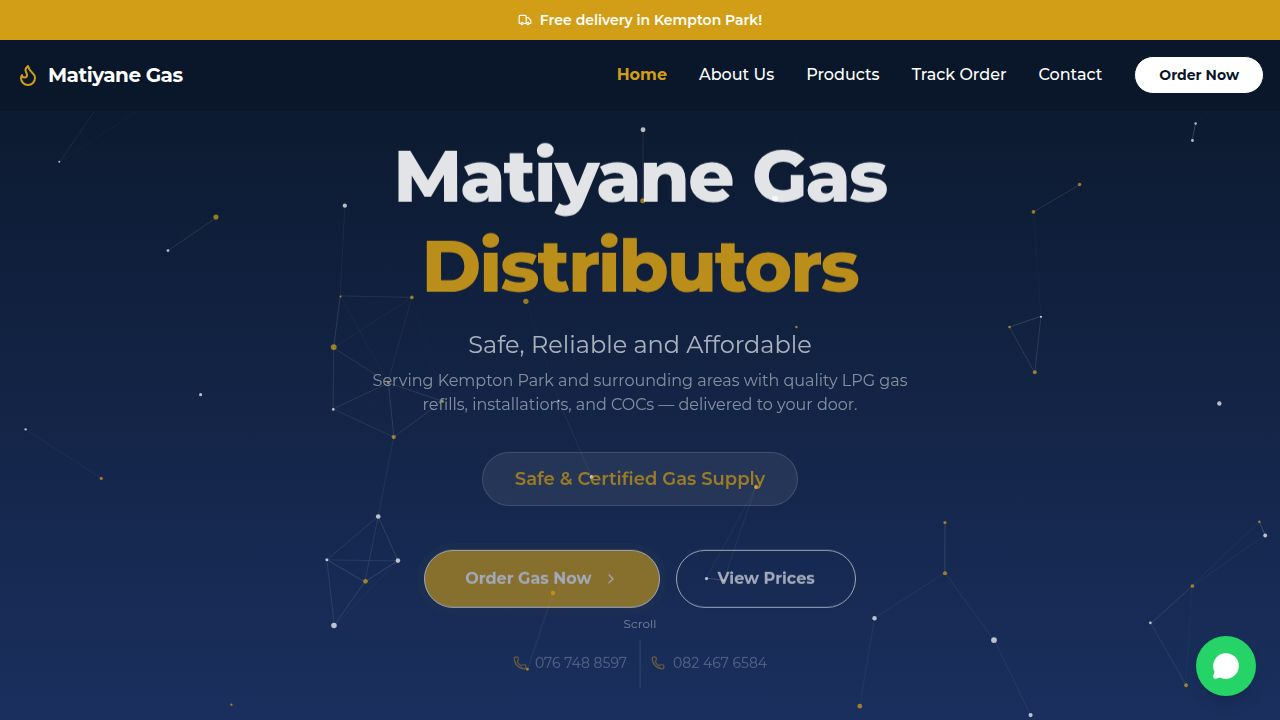
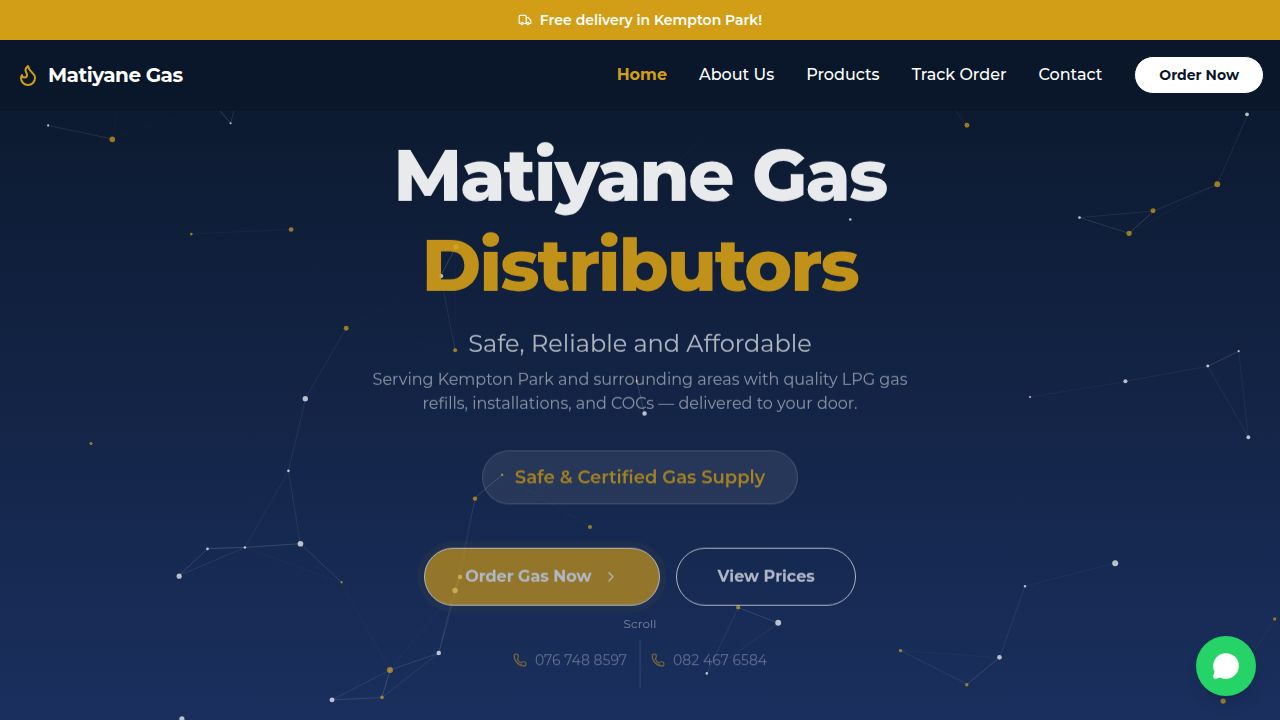
Match accent bar colors with card border hover effects
Add new CSS classes for matching border hover colors and apply them to gas refill and service cards on the home and products pages.

Replit-Commit-Author: Agent
Replit-Commit-Session-Id: fb7f2966-bd04-4505-9ab8-6fdab051f479
Replit-Commit-Checkpoint-Type: full_checkpoint
Replit-Commit-Event-Id: 66f531d3-a7df-46f3-b442-9c801d1b4bfa
Replit-Commit-Screenshot-Url: https://storage.googleapis.com/screenshot-production-us-central1/ec20ed8d-13c7-46a7-9856-6e2779a31ac6/fb7f2966-bd04-4505-9ab8-6fdab051f479/YrwTUzP
Replit-Helium-Checkpoint-Created: true

diff --git a/artifacts/matiyane-gas/src/index.css b/artifacts/matiyane-gas/src/index.css
@@ -240,3 +240,25 @@
 .accent-bar-orange { background-color: #ea580c; }
 .accent-bar-teal { background-color: #0d9488; }
 .accent-bar-lime { background-color: #65a30d; }
+
+/* ── Matching border hover colors ── */
+.border-hover-blue { transition: border-color 0.3s ease; }
+.border-hover-blue:hover { border-color: #2563eb; }
+.border-hover-amber { transition: border-color 0.3s ease; }
+.border-hover-amber:hover { border-color: #d97706; }
+.border-hover-green { transition: border-color 0.3s ease; }
+.border-hover-green:hover { border-color: #16a34a; }
+.border-hover-purple { transition: border-color 0.3s ease; }
+.border-hover-purple:hover { border-color: #9333ea; }
+.border-hover-rose { transition: border-color 0.3s ease; }
+.border-hover-rose:hover { border-color: #e11d48; }
+.border-hover-cyan { transition: border-color 0.3s ease; }
+.border-hover-cyan:hover { border-color: #0891b2; }
+.border-hover-indigo { transition: border-color 0.3s ease; }
+.border-hover-indigo:hover { border-color: #4f46e5; }
+.border-hover-orange { transition: border-color 0.3s ease; }
+.border-hover-orange:hover { border-color: #ea580c; }
+.border-hover-teal { transition: border-color 0.3s ease; }
+.border-hover-teal:hover { border-color: #0d9488; }
+.border-hover-lime { transition: border-color 0.3s ease; }
+.border-hover-lime:hover { border-color: #65a30d; }

diff --git a/artifacts/matiyane-gas/src/pages/home.tsx b/artifacts/matiyane-gas/src/pages/home.tsx
@@ -64,6 +64,12 @@ const accentBarClasses = [
   "accent-bar-indigo", "accent-bar-orange", "accent-bar-teal", "accent-bar-lime"
 ];
 
+const borderHoverClasses = [
+  "border-hover-blue", "border-hover-amber", "border-hover-green",
+  "border-hover-purple", "border-hover-rose", "border-hover-cyan",
+  "border-hover-indigo", "border-hover-orange", "border-hover-teal", "border-hover-lime"
+];
+
 const marqueeLogos = [
   "Licensed & Certified Gas Distributor", "Free Delivery in Kempton Park", "Available 7 Days a Week",
   "Your Safety is Our Priority", "Trusted by Thousands of Households", "Competitive Prices, No Compromise",
@@ -189,7 +195,7 @@ export default function HomePage() {
           <div className="grid grid-cols-1 sm:grid-cols-2 lg:grid-cols-5 gap-6">
             {gasRefills.map((product, i) => (
               <FadeIn key={product.id} direction="up" delay={i * 100}>
-                <div className="group h-full flex flex-col border border-border rounded-2xl p-6 text-center hover:border-secondary hover:shadow-xl hover:shadow-secondary/10 transition-all duration-300 bg-card relative overflow-hidden card-hover-lift">
+                <div className={`group h-full flex flex-col border border-border rounded-2xl p-6 text-center hover:shadow-xl hover:shadow-secondary/10 transition-all duration-300 bg-card relative overflow-hidden card-hover-lift ${borderHoverClasses[i]}`}>
                   {/* Colored accent bar on hover */}
                   <div className={`absolute top-0 left-0 right-0 h-1 ${accentBarClasses[i]} scale-x-0 group-hover:scale-x-100 transition-transform duration-300 origin-left`} />
                   <div className="w-16 h-16 bg-primary/5 rounded-full flex items-center justify-center mx-auto mb-4 group-hover:bg-secondary/10 transition-colors duration-300">
@@ -235,7 +241,7 @@ export default function HomePage() {
               const Icon = getIcon(product);
               return (
                 <FadeIn key={product.id} direction="up" delay={i * 100}>
-                  <div className="group h-full flex flex-col bg-white rounded-2xl p-6 border border-border hover:border-secondary hover:shadow-xl hover:shadow-secondary/10 transition-all duration-300 card-hover-lift relative overflow-hidden">
+                  <div className={`group h-full flex flex-col bg-white rounded-2xl p-6 border border-border hover:shadow-xl hover:shadow-secondary/10 transition-all duration-300 card-hover-lift relative overflow-hidden ${borderHoverClasses[i + 5]}`}>
                     <div className={`absolute top-0 left-0 right-0 h-1 ${accentBarClasses[i + 5]} scale-x-0 group-hover:scale-x-100 transition-transform duration-300 origin-left`} />
                     <div className="w-14 h-14 bg-primary/5 rounded-2xl flex items-center justify-center mb-4 group-hover:bg-secondary/10 transition-colors duration-300">
                       <Icon className="w-7 h-7 text-primary group-hover:text-secondary transition-colors duration-300" />

diff --git a/artifacts/matiyane-gas/src/pages/products.tsx b/artifacts/matiyane-gas/src/pages/products.tsx
@@ -28,6 +28,12 @@ const accentBarClasses = [
   "accent-bar-purple", "accent-bar-rose", "accent-bar-cyan",
 ];
 
+const borderHoverClasses = [
+  "border-hover-blue", "border-hover-amber", "border-hover-green",
+  "border-hover-purple", "border-hover-rose", "border-hover-cyan",
+  "border-hover-indigo", "border-hover-orange", "border-hover-teal", "border-hover-lime"
+];
+
 export default function ProductsPage() {
   const { data: products, isLoading } = useListProducts();
 
@@ -152,7 +158,7 @@ export default function ProductsPage() {
               const Icon = (product as any).icon ? iconMap2[(product as any).icon] || fallbackIcon : fallbackIcon;
               return (
                 <FadeIn key={product.id} direction="up" delay={i * 100}>
-                  <div className="h-full flex flex-col bg-white rounded-2xl p-6 border border-border hover:border-secondary hover:shadow-xl hover:shadow-secondary/10 transition-all duration-300 card-hover-lift group relative overflow-hidden">
+                  <div className={`h-full flex flex-col bg-white rounded-2xl p-6 border border-border hover:shadow-xl hover:shadow-secondary/10 transition-all duration-300 card-hover-lift group relative overflow-hidden ${borderHoverClasses[i + 5]}`}>
                     <div className={`absolute top-0 left-0 right-0 h-1 ${accentBarClasses[i + 5]} scale-x-0 group-hover:scale-x-100 transition-transform duration-300 origin-left`} />
                     <div className="w-14 h-14 bg-primary/5 rounded-2xl flex items-center justify-center mb-4 group-hover:bg-secondary/10 transition-colors duration-300">
                       <Icon className="w-7 h-7 text-primary group-hover:text-secondary transition-colors duration-300" />